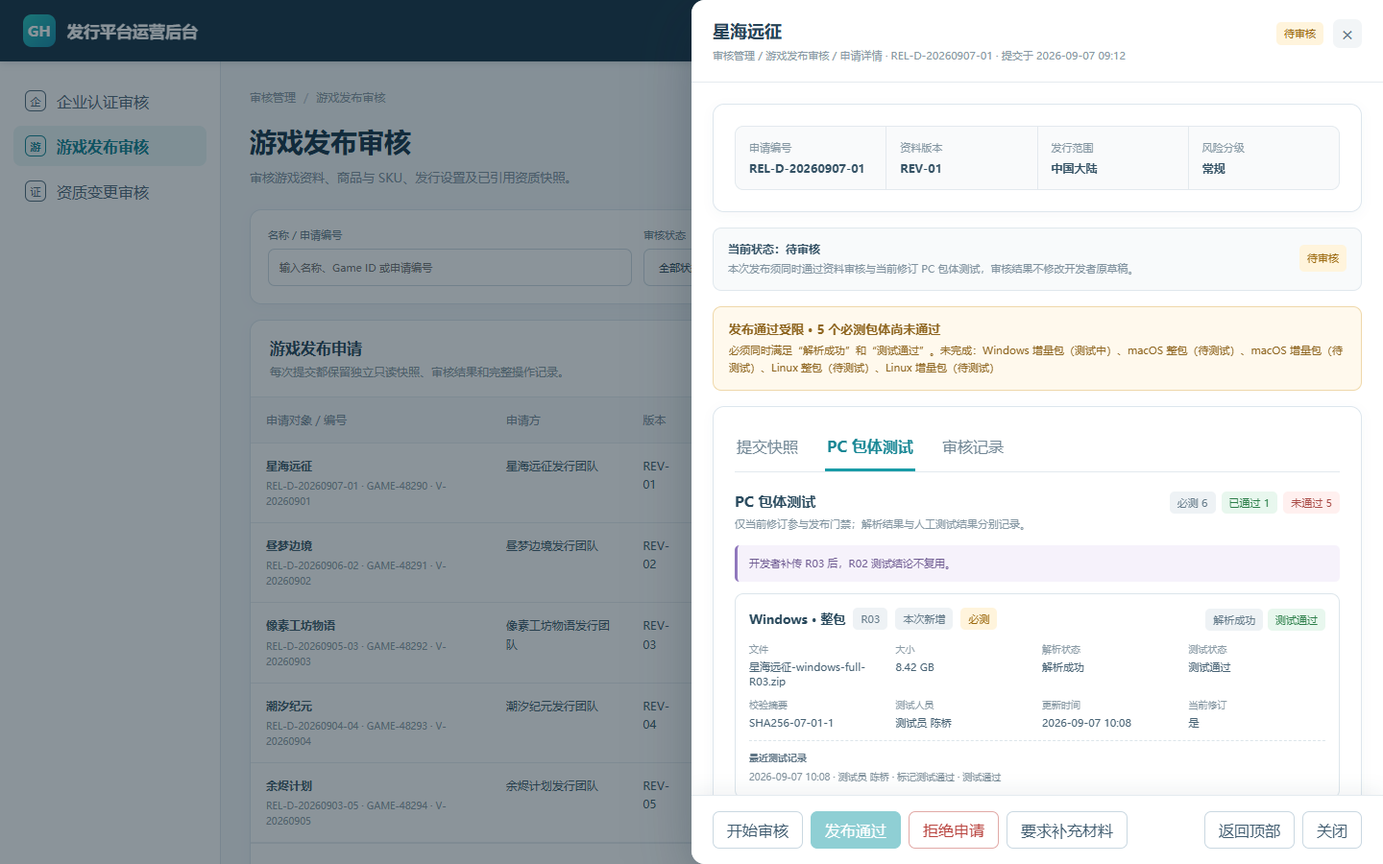
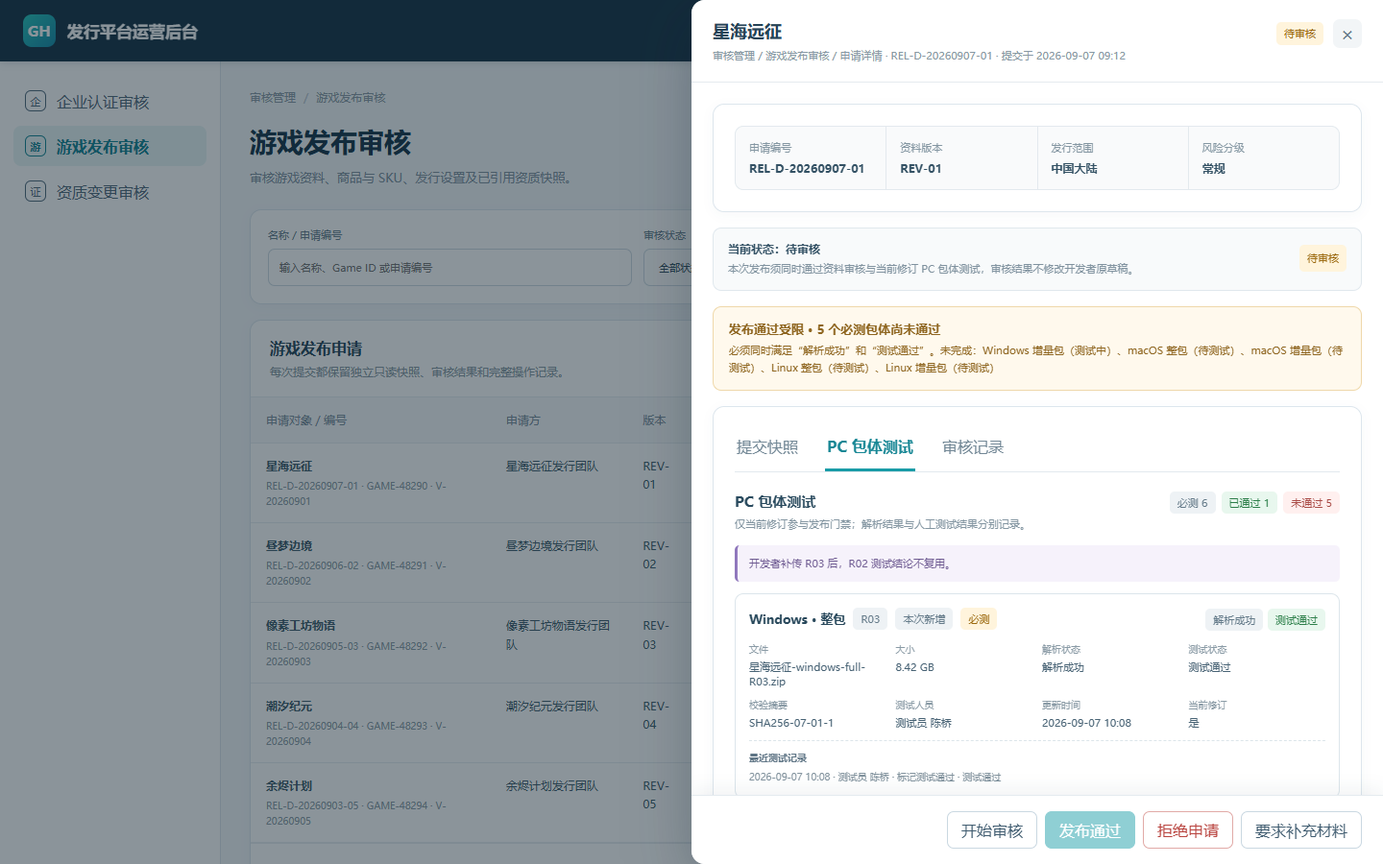
fix: align review drawer actions right

Changed region(s): [[0.5312, 0.9333, 0.9688, 0.9956]]

diff --git a/demos/开发者后台一期/09-发行审核后台demo.html b/demos/开发者后台一期/09-发行审核后台demo.html
@@ -8,7 +8,7 @@
     *{box-sizing:border-box}html,body{height:100%;margin:0}button,input,select,textarea{font:inherit}button{cursor:pointer}body{font-family:"MiSans VF","MiSans","PingFang SC","Microsoft YaHei",sans-serif;background:#f4f7fa;color:#263f51;-webkit-font-smoothing:antialiased}.app{min-height:100%;display:grid;grid-template-rows:64px 1fr}.topbar{position:sticky;top:0;z-index:20;display:flex;align-items:center;justify-content:space-between;padding:0 24px;background:#173447;color:#fff;box-shadow:0 1px 8px rgba(20,45,63,.18)}.brand{display:flex;align-items:center;gap:12px;font-size:17px;font-weight:650}.brand-mark{display:grid;place-items:center;width:34px;height:34px;border-radius:9px;background:linear-gradient(135deg,#27c4bc,#178ba9);font-size:15px}.top-user{display:flex;align-items:center;gap:10px;color:#dce9ef;font-size:13px}.avatar{display:grid;place-items:center;width:30px;height:30px;border-radius:50%;background:#2a596f;color:#fff;font-weight:650}.shell{display:grid;grid-template-columns:230px minmax(0,1fr);min-height:0}.sidebar{position:sticky;top:64px;height:calc(100vh - 64px);padding:20px 14px;border-right:1px solid #dce5ec;background:#fff}.side-label{padding:0 12px 9px;color:#9aabb6;font-size:11px}.side-nav{display:grid;gap:5px}.side-nav button{display:flex;align-items:center;gap:11px;width:100%;height:42px;border:0;border-radius:8px;background:transparent;padding:0 12px;color:#536b7d;text-align:left}.side-nav button:hover{background:#f2f7f8;color:#187d8b}.side-nav button.is-active{background:#e8f6f6;color:#138594;font-weight:650}.side-icon{display:grid;place-items:center;width:22px;height:22px;border:1px solid currentColor;border-radius:6px;font-size:11px}.side-divider{height:1px;margin:18px 12px;background:#edf1f4}.side-help{position:absolute;right:16px;bottom:18px;left:16px;border-radius:9px;background:#f6f9fb;padding:13px;color:#7b8f9d;font-size:11px;line-height:1.6}.main{min-width:0;padding:24px 30px 48px}.crumb{display:flex;align-items:center;gap:8px;min-height:26px;margin-bottom:14px;color:#8a9aa6;font-size:12px}.crumb button{border:0;background:none;padding:3px 0;color:#258c9c}.crumb button:hover{text-decoration:underline}.crumb i{font-style:normal;color:#bdc9d1}.page-header{display:flex;align-items:flex-start;justify-content:space-between;gap:24px;margin-bottom:22px}.page-header h1{margin:0;color:#17364a;font-size:28px;line-height:1.35}.page-header p{margin:8px 0 0;color:#80929f;font-size:13px;line-height:1.7}.header-actions{display:flex;align-items:center;gap:9px}.btn{display:inline-flex;align-items:center;justify-content:center;gap:7px;min-height:38px;border:1px solid #cad8e1;border-radius:7px;background:#fff;padding:8px 14px;color:#405c70;white-space:nowrap}.btn:hover{border-color:#86b9c0;color:#167f8e}.btn.primary{border-color:#149ba6;background:#149ba6;color:#fff}.btn.primary:hover{background:#108b95}.btn.danger{border-color:#e1aaa7;color:#b9443f}.btn.danger:hover{background:#fff5f4}.btn:disabled{cursor:not-allowed;opacity:.48}.btn.small{min-height:30px;padding:5px 9px;font-size:12px}.link-btn{border:0;background:none;padding:5px 0;color:#148d9a}.link-btn:hover{text-decoration:underline}.card{border:1px solid #dde6ed;border-radius:12px;background:#fff;box-shadow:0 3px 12px rgba(35,68,88,.035)}.metric-grid{display:grid;grid-template-columns:repeat(4,minmax(0,1fr));gap:14px}.metric{min-width:0;padding:20px}.metric span{display:block;color:#8799a5;font-size:12px}.metric strong{display:block;margin:9px 0 4px;color:#183b50;font-size:28px}.metric small{color:#718a99;font-size:11px}.review-entry-grid{display:grid;grid-template-columns:repeat(3,minmax(0,1fr));gap:16px;margin-top:20px}.review-entry{position:relative;overflow:hidden;padding:22px}.review-entry:before{content:"";position:absolute;top:0;right:0;left:0;height:3px;background:#1aa3ad}.review-entry:nth-child(2):before{background:#3b87c6}.review-entry:nth-child(3):before{background:#8b74be}.entry-head{display:flex;justify-content:space-between;gap:12px}.entry-head h2{margin:0;color:#203e52;font-size:17px}.entry-head strong{color:#d15e54;font-size:13px}.review-entry p{min-height:40px;margin:10px 0 18px;color:#8093a0;font-size:12px;line-height:1.7}.status-cloud{display:flex;flex-wrap:wrap;gap:6px;margin-bottom:18px}.tag{display:inline-flex;align-items:center;border-radius:5px;padding:5px 8px;background:#eef2f5;color:#657b8a;font-size:11px;line-height:1.2;white-space:nowrap}.tag.pending{background:#fff4dc;color:#9c6a10}.tag.reviewing{background:#e8f4fc;color:#2777a5}.tag.supplement{background:#fff1e4;color:#ad622c}.tag.approved{background:#e8f7ee;color:#2d7f4a}.tag.rejected{background:#fff0ef;color:#aa4c47}.tag.withdrawn{background:#eef1f4;color:#6f7c87}.tag.disabled,.tag.offline,.tag.invalid{background:#f3eefa;color:#725496}.tag.failure{background:#fff0ef;color:#ad4944}.overview-bottom{display:grid;grid-template-columns:minmax(0,1.5fr) minmax(300px,.7fr);gap:16px;margin-top:16px}.section-card{padding:21px}.section-title{display:flex;align-items:flex-start;justify-content:space-between;gap:12px;margin-bottom:16px}.section-title h2{margin:0;color:#244357;font-size:16px}.section-title p{margin:6px 0 0;color:#8495a2;font-size:12px}.mini-list{display:grid;gap:1px}.mini-row{display:grid;grid-template-columns:minmax(180px,1.5fr) 130px 100px 80px;align-items:center;gap:14px;padding:13px 4px;border-top:1px solid #edf1f4;font-size:12px}.mini-row:first-child{border-top:0}.mini-row strong,.mini-row small{display:block}.mini-row small{margin-top:4px;color:#91a0aa}.matrix{display:grid;gap:10px}.matrix-row{display:flex;align-items:center;justify-content:space-between;gap:10px;border-radius:8px;background:#f7f9fb;padding:11px}.matrix-row strong{font-size:12px}.matrix-row span{color:#758a98;font-size:11px}.filter{display:grid;grid-template-columns:minmax(220px,1.6fr) repeat(3,minmax(145px,.75fr)) auto;align-items:end;gap:12px;margin-bottom:16px;padding:18px}.field{display:grid;gap:7px;color:#687e8e;font-size:11px}.control{width:100%;height:39px;border:1px solid #cfdae3;border-radius:7px;background:#fff;padding:0 11px;color:#314e60;outline:none}.control:focus{border-color:#43aab1;box-shadow:0 0 0 3px rgba(24,155,166,.1)}.filter-actions{display:flex;gap:8px}.table-card{overflow:hidden}.table-head{display:flex;align-items:flex-start;justify-content:space-between;gap:12px;padding:18px 20px;border-bottom:1px solid #e7edf1}.table-head h2{margin:0;color:#26465b;font-size:16px}.table-head p{margin:6px 0 0;color:#8899a5;font-size:12px}.table-head span{color:#778c9a;font-size:12px}.table-scroll{overflow:auto}.table{width:100%;min-width:1040px;border-collapse:collapse}.table th,.table td{border-bottom:1px solid #e8edf1;padding:14px 16px;text-align:left;vertical-align:top;font-size:12px;line-height:1.6}.table th{background:#f8fafb;color:#7a8f9d;font-weight:500;white-space:nowrap}.table td{color:#405c6e}.table tr:last-child td{border-bottom:0}.table tr:hover td{background:#fbfdfd}.cell-main strong,.cell-main small{display:block}.cell-main small{margin-top:3px;color:#8c9da9}.cell-actions{display:flex;align-items:center;gap:11px;white-space:nowrap}.empty{padding:70px 20px;text-align:center;color:#7e919e}.empty strong{display:block;color:#456174;font-size:15px}.empty p{margin:8px 0 0;font-size:12px}.message{display:flex;align-items:flex-start;justify-content:space-between;gap:12px;margin-bottom:16px;border:1px solid #cbe7e7;border-radius:8px;background:#edf9f8;padding:12px 14px;color:#34747a;font-size:12px;line-height:1.6}.message.error{border-color:#edcecb;background:#fff5f4;color:#a5524d}.message.warning{border-color:#efd6a6;background:#fff9ec;color:#966a22}.message button{border:0;background:none;color:inherit}.detail-grid{display:grid;grid-template-columns:minmax(0,1fr) 330px;align-items:start;gap:16px}.detail-main,.detail-side{display:grid;gap:16px}.panel{padding:22px}.panel h2{margin:0 0 16px;color:#27475a;font-size:16px}.panel h3{margin:20px 0 12px;color:#3d596b;font-size:13px}.summary-strip{display:grid;grid-template-columns:repeat(4,minmax(0,1fr));gap:1px;overflow:hidden;border:1px solid #e3e9ee;border-radius:9px;background:#e3e9ee}.summary-strip>div{min-width:0;background:#f9fafb;padding:14px}.summary-strip span,.summary-strip strong{display:block}.summary-strip span{color:#8496a2;font-size:11px}.summary-strip strong{margin-top:6px;color:#335164;font-size:12px;overflow-wrap:anywhere}.detail-tabs{display:flex;gap:26px;border-bottom:1px solid #e2e9ee;margin:-5px 0 20px}.detail-tabs button{border:0;border-bottom:3px solid transparent;background:none;padding:13px 2px;color:#738896}.detail-tabs button.is-active{border-color:#199ca7;color:#188795;font-weight:650}.snapshot-section{padding:20px 0;border-top:1px solid #edf1f4}.snapshot-section:first-of-type{padding-top:0;border-top:0}.snapshot-section>h3{margin:0 0 15px}.field-grid{display:grid;grid-template-columns:repeat(2,minmax(0,1fr));gap:17px 24px}.read-field dt{margin-bottom:5px;color:#8798a4;font-size:11px}.read-field dd{margin:0;color:#344f61;font-size:12px;line-height:1.65;white-space:pre-wrap;overflow-wrap:anywhere}.read-field.wide{grid-column:1/-1}.attachment-grid{display:grid;grid-template-columns:repeat(2,minmax(0,1fr));gap:10px;margin-top:15px}.attachment{display:flex;align-items:center;gap:11px;min-width:0;border:1px solid #dce6ec;border-radius:8px;background:#fbfcfd;padding:12px;text-align:left}.attachment:hover{border-color:#72bbc0;background:#f5fbfb}.file-mark{display:grid;flex:0 0 auto;place-items:center;width:36px;height:42px;border-radius:5px;background:#e9f5f6;color:#178b98;font-size:11px;font-weight:700}.attachment span{min-width:0}.attachment strong,.attachment small{display:block;overflow:hidden;text-overflow:ellipsis;white-space:nowrap}.attachment strong{color:#385568;font-size:12px}.attachment small{margin-top:5px;color:#8a9ca8;font-size:10px}.action-note{margin:0 0 16px;color:#8194a0;font-size:12px;line-height:1.7}.action-stack{display:grid;gap:9px}.action-stack .btn{width:100%}.failure-box{margin-bottom:15px;border:1px solid #edc4c1;border-radius:8px;background:#fff4f3;padding:13px;color:#9d4d48;font-size:12px;line-height:1.7}.failure-box strong,.failure-box small{display:block}.failure-box small{margin-top:5px}.timeline{position:relative;display:grid;gap:19px;margin:0;padding:0 0 0 20px;list-style:none}.timeline:before{content:"";position:absolute;top:4px;bottom:10px;left:5px;width:1px;background:#dbe5eb}.timeline li{position:relative}.timeline li:before{content:"";position:absolute;top:5px;left:-20px;width:9px;height:9px;border:2px solid #fff;border-radius:50%;background:#4eaab1;box-shadow:0 0 0 1px #84c6ca}.timeline strong,.timeline span,.timeline p,.timeline small{display:block}.timeline strong{color:#405d70;font-size:12px}.timeline span,.timeline small{margin-top:4px;color:#8b9ca7;font-size:10px}.timeline p{margin:6px 0 0;color:#735d4e;font-size:11px;line-height:1.65}.snapshot-page{max-width:1180px;margin:0 auto}.snapshot-lock{display:flex;align-items:center;gap:10px;margin-bottom:16px;border-radius:8px;background:#eff6f8;padding:12px 14px;color:#557b88;font-size:12px}.snapshot-watermark{position:relative}.snapshot-watermark:after{content:"只读提交快照";position:fixed;right:50px;bottom:40px;z-index:2;transform:rotate(-12deg);color:rgba(50,100,116,.08);font-size:48px;font-weight:700;pointer-events:none}.modal-root[hidden]{display:none}.modal-root{position:fixed;inset:0;z-index:50;display:grid;place-items:center;padding:24px;background:rgba(13,31,43,.48)}.modal{width:min(560px,calc(100vw - 32px));max-height:calc(100vh - 48px);overflow:auto;border-radius:13px;background:#fff;box-shadow:0 20px 60px rgba(17,37,50,.28)}.modal.wide{width:min(860px,calc(100vw - 32px))}.modal header{display:flex;align-items:flex-start;justify-content:space-between;gap:16px;padding:20px 22px;border-bottom:1px solid #e5ebef}.modal h2{margin:0;color:#244256;font-size:18px}.modal header p{margin:6px 0 0;color:#8798a4;font-size:11px}.modal-close{display:grid;place-items:center;width:30px;height:30px;border:0;border-radius:7px;background:#f2f5f7;color:#687e8d;font-size:20px}.modal-body{padding:22px}.modal-footer{display:flex;justify-content:flex-end;gap:9px;padding:16px 22px;border-top:1px solid #e5ebef}.form-textarea{width:100%;min-height:110px;border:1px solid #cfdbe3;border-radius:7px;padding:10px;resize:vertical;outline:none}.form-textarea:focus{border-color:#3ba6af;box-shadow:0 0 0 3px rgba(20,155,166,.1)}.form-error{min-height:18px;margin:7px 0 0;color:#b14843;font-size:11px}.document-preview{display:grid;grid-template-columns:1fr 240px;gap:18px}.document-paper{min-height:380px;border:1px solid #dbe3e8;border-radius:6px;background:linear-gradient(#fff,#fbfcfd);padding:34px;color:#455e6e;box-shadow:0 5px 16px rgba(38,65,81,.07)}.document-paper .seal{float:right;display:grid;place-items:center;width:84px;height:84px;border:3px solid rgba(200,55,51,.55);border-radius:50%;color:rgba(200,55,51,.65);font-size:11px;transform:rotate(-12deg)}.document-paper h3{margin:0 0 24px;text-align:center;color:#324c5e;font-size:20px}.document-paper p{margin:10px 0;font-size:12px;line-height:1.8}.document-meta{border-radius:8px;background:#f6f8fa;padding:15px}.document-meta dl{margin:0}.document-meta div{padding:10px 0;border-top:1px solid #e3e9ed}.document-meta div:first-child{padding-top:0;border-top:0}.document-meta dt{color:#8a9ba6;font-size:10px}.document-meta dd{margin:5px 0 0;color:#405b6d;font-size:11px;overflow-wrap:anywhere}.pagination{display:flex;align-items:center;justify-content:flex-end;gap:8px;padding:13px 18px;border-top:1px solid #e8edf1;color:#8194a0;font-size:11px}.pagination button{display:grid;place-items:center;width:30px;height:30px;border:1px solid #d2dde5;border-radius:6px;background:#fff;color:#567083}.pagination button.is-active{border-color:#1a99a5;color:#168793}.pagination button:disabled{opacity:.4;cursor:default}@media(max-width:1100px){.shell{grid-template-columns:200px minmax(0,1fr)}.main{padding:22px 20px 40px}.metric-grid{grid-template-columns:repeat(2,minmax(0,1fr))}.review-entry-grid{grid-template-columns:1fr}.detail-grid{grid-template-columns:minmax(0,1fr)}.detail-side{grid-template-columns:repeat(2,minmax(0,1fr))}.filter{grid-template-columns:repeat(2,minmax(0,1fr))}.filter-actions{grid-column:1/-1}.overview-bottom{grid-template-columns:1fr}}@media(max-width:760px){.topbar{padding:0 14px}.top-user span{display:none}.shell{display:block}.sidebar{position:static;width:100%;height:auto;border-right:0;border-bottom:1px solid #dce5ec;padding:10px}.side-label,.side-divider,.side-help{display:none}.side-nav{display:flex;overflow:auto}.side-nav button{flex:0 0 auto;width:auto}.main{padding:18px 14px 34px}.page-header{display:block}.header-actions{margin-top:14px}.metric-grid,.field-grid,.attachment-grid,.detail-side{grid-template-columns:1fr}.summary-strip{grid-template-columns:repeat(2,minmax(0,1fr))}.filter{grid-template-columns:1fr}.mini-row{grid-template-columns:minmax(0,1fr) 85px 76px}.mini-row>span:nth-child(2){display:none}.document-preview{grid-template-columns:1fr}.document-paper{min-height:300px}}
     .modal-root.is-drawer{display:block;padding:0}.modal.drawer{display:flex;flex-direction:column;width:min(720px,50vw);height:100vh;max-height:none;margin-left:auto;border-radius:14px 0 0 14px;animation:drawer-in .18s ease-out}.modal.drawer>.modal-body{min-height:0;overflow:auto}.modal.drawer>.modal-footer,.modal.drawer>header{flex:0 0 auto}.region-switch{display:flex;align-items:center;gap:4px;border:1px solid rgba(255,255,255,.18);border-radius:8px;background:rgba(255,255,255,.06);padding:3px}.region-switch span{padding:0 7px;color:#bcd0db;font-size:11px}.region-switch button{height:28px;border:0;border-radius:5px;background:transparent;padding:0 12px;color:#d5e4eb;font-size:12px}.region-switch button.is-active{background:#fff;color:#176f7e;font-weight:650}.range-trigger{display:flex;align-items:center;justify-content:space-between;min-width:220px;text-align:left}.range-trigger span{overflow:hidden;text-overflow:ellipsis}.range-popover[hidden]{display:none}.range-popover{position:fixed;z-index:45;width:390px;border:1px solid #d5e0e7;border-radius:10px;background:#fff;box-shadow:0 14px 38px rgba(23,52,70,.18);padding:16px}.range-presets{display:flex;flex-wrap:wrap;gap:7px;margin-bottom:15px}.range-presets button{border:1px solid #d3dee5;border-radius:6px;background:#f8fafb;padding:7px 10px;color:#536d7e;font-size:11px}.range-presets button:hover,.range-presets button.is-active{border-color:#58adb4;background:#edf8f8;color:#14818d}.range-custom{display:grid;grid-template-columns:1fr 1fr;gap:10px}.range-popover footer{display:flex;justify-content:flex-end;gap:8px;margin-top:14px;padding-top:13px;border-top:1px solid #e8edf1}@keyframes drawer-in{from{transform:translateX(36px);opacity:.5}to{transform:translateX(0);opacity:1}}@media(max-width:1100px){.modal.drawer{width:min(720px,72vw)}}@media(max-width:760px){.modal.drawer{width:calc(100vw - 18px);border-radius:14px 0 0 14px}.range-popover{right:12px!important;left:12px!important;width:auto}.region-switch span{display:none}.region-switch button{padding:0 8px}}
     .region-switch select{height:30px;border:1px solid rgba(255,255,255,.24);border-radius:5px;background:#fff;padding:0 26px 0 10px;color:#176f7e;font-size:12px;font-weight:650;outline:none}.modal.drawer .detail-grid{grid-template-columns:minmax(0,1fr)}.modal.drawer .detail-side{order:-1;grid-template-columns:repeat(2,minmax(0,1fr))}@media(max-width:620px){.modal.drawer .detail-side{grid-template-columns:1fr}}
-    .page-header .region-switch{border-color:#d4e0e7;background:#fff;padding:4px 5px 4px 10px;box-shadow:0 2px 8px rgba(35,68,88,.04)}.page-header .region-switch span{color:#6f8492}.page-header .region-switch select{height:32px;border-color:#cbd9e1;background:#f8fafb;color:#244d62}.filter{grid-template-columns:minmax(220px,1.35fr) minmax(150px,.65fr) minmax(260px,1fr) auto}.filter-actions{align-items:center;justify-content:flex-end}.link-btn:disabled{cursor:not-allowed;color:#a5b1b9;text-decoration:none}.modal.drawer>header{position:relative;z-index:2;background:#fff}.modal.drawer>.modal-body{overscroll-behavior:contain}.modal.drawer>.modal-footer{position:relative;z-index:2;align-items:center;justify-content:space-between;gap:12px;background:#fff;box-shadow:0 -6px 18px rgba(25,58,76,.06)}.drawer-footer-actions,.drawer-footer-tools{display:flex;align-items:center;gap:8px}.drawer-footer-actions .action-note{margin:0}.drawer-status{display:flex;align-items:flex-start;justify-content:space-between;gap:16px;margin-bottom:16px;border:1px solid #e0e8ed;border-radius:9px;background:#f8fafb;padding:13px 15px}.drawer-status strong,.drawer-status span{display:block}.drawer-status strong{color:#355366;font-size:12px}.drawer-status span{margin-top:4px;color:#80929f;font-size:11px;line-height:1.6}.gate-panel{margin-bottom:16px;border:1px solid #efd8aa;border-radius:9px;background:#fff9ed;padding:14px 16px;color:#8e651f}.gate-panel.is-passed{border-color:#cce6d5;background:#eff9f2;color:#2f7850}.gate-panel strong,.gate-panel span{display:block}.gate-panel strong{font-size:13px}.gate-panel span{margin-top:5px;font-size:11px;line-height:1.65}.package-toolbar{display:flex;align-items:flex-start;justify-content:space-between;gap:18px;margin-bottom:14px}.package-toolbar h3{margin:0;color:#294a5e;font-size:15px}.package-toolbar p{margin:5px 0 0;color:#8496a2;font-size:11px;line-height:1.6}.package-summary{display:flex;gap:6px;flex-wrap:wrap;justify-content:flex-end}.package-revision-note{margin-bottom:12px;border-left:3px solid #8f77bc;border-radius:5px;background:#f6f2fb;padding:10px 12px;color:#6e5a91;font-size:11px;line-height:1.6}.package-list{display:grid;gap:10px}.package-item{border:1px solid #dce5eb;border-radius:9px;background:#fff;padding:14px}.package-item.is-superseded{background:#f7f8f9;color:#87949d}.package-head{display:flex;align-items:flex-start;justify-content:space-between;gap:12px}.package-title{display:flex;align-items:center;gap:8px;flex-wrap:wrap}.package-title strong{color:#29495c;font-size:13px}.package-item.is-superseded .package-title strong{color:#71808a}.package-meta{display:grid;grid-template-columns:repeat(4,minmax(0,1fr));gap:10px;margin-top:12px}.package-meta div{min-width:0}.package-meta span,.package-meta b{display:block}.package-meta span{color:#8a9ba6;font-size:10px}.package-meta b{margin-top:4px;color:#486375;font-size:11px;font-weight:500;overflow-wrap:anywhere}.package-result{margin-top:11px;border-radius:7px;background:#f7f9fa;padding:10px 11px;color:#6f8290;font-size:11px;line-height:1.6}.package-result.failure{background:#fff3f2;color:#a6534d}.package-actions{display:flex;flex-wrap:wrap;gap:7px;margin-top:12px}.package-history{margin-top:11px;border-top:1px dashed #dce5ea;padding-top:9px;color:#82939e;font-size:10px;line-height:1.6}.package-history strong{display:block;margin-bottom:4px;color:#607686;font-size:10px}.package-attachments{display:flex;flex-wrap:wrap;gap:6px;margin-top:7px}.package-file{display:inline-flex;align-items:center;gap:6px;border-radius:5px;background:#edf4f6;padding:5px 7px;color:#517080;font-size:10px}.file-upload{position:relative;display:grid;place-items:center;min-height:84px;margin-top:14px;border:1px dashed #a9c1cc;border-radius:8px;background:#f8fbfc;color:#587483;font-size:12px;cursor:pointer}.file-upload input{position:absolute;inset:0;width:100%;height:100%;opacity:0;cursor:pointer}.draft-files{display:grid;gap:7px;margin-top:10px}.draft-file{display:flex;align-items:center;justify-content:space-between;gap:12px;border-radius:7px;background:#f4f7f9;padding:9px 10px;color:#536d7d;font-size:11px}.draft-file button{border:0;background:none;color:#b14d48}.tag.parse-pending,.tag.test-pending{background:#f1f3f5;color:#6e7c86}.tag.parsing,.tag.testing{background:#e8f4fc;color:#2777a5}.tag.parse-failed,.tag.test-failed{background:#fff0ef;color:#aa4c47}.tag.parsed,.tag.test-passed{background:#e8f7ee;color:#2d7f4a}.tag.superseded{background:#f3eefa;color:#725496}@media(max-width:1100px){.filter{grid-template-columns:repeat(2,minmax(0,1fr))}.package-meta{grid-template-columns:repeat(2,minmax(0,1fr))}}@media(max-width:760px){.filter{grid-template-columns:1fr}.filter-actions{justify-content:flex-start;flex-wrap:wrap}.page-header .region-switch{margin-top:14px}.modal.drawer>.modal-footer{align-items:flex-start;flex-direction:column}.drawer-footer-actions,.drawer-footer-tools{width:100%;flex-wrap:wrap}.package-meta{grid-template-columns:1fr}.package-toolbar{display:block}.package-summary{justify-content:flex-start;margin-top:10px}}
+    .page-header .region-switch{border-color:#d4e0e7;background:#fff;padding:4px 5px 4px 10px;box-shadow:0 2px 8px rgba(35,68,88,.04)}.page-header .region-switch span{color:#6f8492}.page-header .region-switch select{height:32px;border-color:#cbd9e1;background:#f8fafb;color:#244d62}.filter{grid-template-columns:minmax(220px,1.35fr) minmax(150px,.65fr) minmax(260px,1fr) auto}.filter-actions{align-items:center;justify-content:flex-end}.link-btn:disabled{cursor:not-allowed;color:#a5b1b9;text-decoration:none}.modal.drawer>header{position:relative;z-index:2;background:#fff}.modal.drawer>.modal-body{overscroll-behavior:contain}.modal.drawer>.modal-footer{position:relative;z-index:2;align-items:center;justify-content:flex-end;gap:12px;background:#fff;box-shadow:0 -6px 18px rgba(25,58,76,.06)}.drawer-footer-actions{display:flex;align-items:center;justify-content:flex-end;gap:8px}.drawer-footer-actions .action-note{margin:0}.drawer-status{display:flex;align-items:flex-start;justify-content:space-between;gap:16px;margin-bottom:16px;border:1px solid #e0e8ed;border-radius:9px;background:#f8fafb;padding:13px 15px}.drawer-status strong,.drawer-status span{display:block}.drawer-status strong{color:#355366;font-size:12px}.drawer-status span{margin-top:4px;color:#80929f;font-size:11px;line-height:1.6}.gate-panel{margin-bottom:16px;border:1px solid #efd8aa;border-radius:9px;background:#fff9ed;padding:14px 16px;color:#8e651f}.gate-panel.is-passed{border-color:#cce6d5;background:#eff9f2;color:#2f7850}.gate-panel strong,.gate-panel span{display:block}.gate-panel strong{font-size:13px}.gate-panel span{margin-top:5px;font-size:11px;line-height:1.65}.package-toolbar{display:flex;align-items:flex-start;justify-content:space-between;gap:18px;margin-bottom:14px}.package-toolbar h3{margin:0;color:#294a5e;font-size:15px}.package-toolbar p{margin:5px 0 0;color:#8496a2;font-size:11px;line-height:1.6}.package-summary{display:flex;gap:6px;flex-wrap:wrap;justify-content:flex-end}.package-revision-note{margin-bottom:12px;border-left:3px solid #8f77bc;border-radius:5px;background:#f6f2fb;padding:10px 12px;color:#6e5a91;font-size:11px;line-height:1.6}.package-list{display:grid;gap:10px}.package-item{border:1px solid #dce5eb;border-radius:9px;background:#fff;padding:14px}.package-item.is-superseded{background:#f7f8f9;color:#87949d}.package-head{display:flex;align-items:flex-start;justify-content:space-between;gap:12px}.package-title{display:flex;align-items:center;gap:8px;flex-wrap:wrap}.package-title strong{color:#29495c;font-size:13px}.package-item.is-superseded .package-title strong{color:#71808a}.package-meta{display:grid;grid-template-columns:repeat(4,minmax(0,1fr));gap:10px;margin-top:12px}.package-meta div{min-width:0}.package-meta span,.package-meta b{display:block}.package-meta span{color:#8a9ba6;font-size:10px}.package-meta b{margin-top:4px;color:#486375;font-size:11px;font-weight:500;overflow-wrap:anywhere}.package-result{margin-top:11px;border-radius:7px;background:#f7f9fa;padding:10px 11px;color:#6f8290;font-size:11px;line-height:1.6}.package-result.failure{background:#fff3f2;color:#a6534d}.package-actions{display:flex;flex-wrap:wrap;gap:7px;margin-top:12px}.package-history{margin-top:11px;border-top:1px dashed #dce5ea;padding-top:9px;color:#82939e;font-size:10px;line-height:1.6}.package-history strong{display:block;margin-bottom:4px;color:#607686;font-size:10px}.package-attachments{display:flex;flex-wrap:wrap;gap:6px;margin-top:7px}.package-file{display:inline-flex;align-items:center;gap:6px;border-radius:5px;background:#edf4f6;padding:5px 7px;color:#517080;font-size:10px}.file-upload{position:relative;display:grid;place-items:center;min-height:84px;margin-top:14px;border:1px dashed #a9c1cc;border-radius:8px;background:#f8fbfc;color:#587483;font-size:12px;cursor:pointer}.file-upload input{position:absolute;inset:0;width:100%;height:100%;opacity:0;cursor:pointer}.draft-files{display:grid;gap:7px;margin-top:10px}.draft-file{display:flex;align-items:center;justify-content:space-between;gap:12px;border-radius:7px;background:#f4f7f9;padding:9px 10px;color:#536d7d;font-size:11px}.draft-file button{border:0;background:none;color:#b14d48}.tag.parse-pending,.tag.test-pending{background:#f1f3f5;color:#6e7c86}.tag.parsing,.tag.testing{background:#e8f4fc;color:#2777a5}.tag.parse-failed,.tag.test-failed{background:#fff0ef;color:#aa4c47}.tag.parsed,.tag.test-passed{background:#e8f7ee;color:#2d7f4a}.tag.superseded{background:#f3eefa;color:#725496}@media(max-width:1100px){.filter{grid-template-columns:repeat(2,minmax(0,1fr))}.package-meta{grid-template-columns:repeat(2,minmax(0,1fr))}}@media(max-width:760px){.filter{grid-template-columns:1fr}.filter-actions{justify-content:flex-start;flex-wrap:wrap}.page-header .region-switch{margin-top:14px}.modal.drawer>.modal-footer{align-items:flex-start}.drawer-footer-actions{width:100%;justify-content:flex-end;flex-wrap:wrap}.package-meta{grid-template-columns:1fr}.package-toolbar{display:block}.package-summary{justify-content:flex-start;margin-top:10px}}
   </style>
 </head>
 <body>
@@ -189,7 +189,7 @@
       const path=`审核管理 / ${typeConfig[record.type].label} / 申请详情`;
       const statusText=record.type==='enterprise'?'企业认证结果决定发行合作权限；禁用后仍可登录查看历史结果。':record.type==='release'?'本次发布须同时通过资料审核与当前修订 PC 包体测试，审核结果不修改开发者原草稿。':'资质变更与发布审核独立，已失效版本不可用于新的上架申请。';
       const content=tab==='audit'?renderTimeline(record):tab==='packages'?renderPackageTests(record):renderSnapshotSections(record);
-      const body=`<header data-drawer-header><div><h2>${esc(record.title)}</h2><p>${esc(path)} · ${esc(record.id)} · 提交于 ${esc(record.submittedAt)}</p></div><div style="display:flex;align-items:center;gap:10px">${tag(record.status)}<button type="button" class="modal-close" data-modal-close aria-label="关闭">×</button></div></header><div class="modal-body" data-drawer-scroll>${state.message?renderMessage():''}<section class="card panel" style="margin-bottom:16px"><div class="summary-strip"><div><span>申请编号</span><strong>${esc(record.id)}</strong></div><div><span>资料版本</span><strong>${esc(record.version)}</strong></div><div><span>发行范围</span><strong>${esc(record.scope)}</strong></div><div><span>风险分级</span><strong>${esc(record.risk)}</strong></div></div></section><div class="drawer-status"><div><strong>当前状态：${esc(statusLabel(record.status))}</strong><span>${esc(statusText)}</span></div>${tag(record.status)}</div>${record.type==='release'?renderReleaseGate(record):''}<section class="card panel">${tabs}${content}</section></div><footer class="modal-footer" data-drawer-footer><div class="drawer-footer-actions">${auditActions(record)}</div><div class="drawer-footer-tools"><button type="button" class="btn" data-drawer-top>返回顶部</button><button type="button" class="btn" data-modal-close>关闭</button></div></footer>`;
+      const body=`<header data-drawer-header><div><h2>${esc(record.title)}</h2><p>${esc(path)} · ${esc(record.id)} · 提交于 ${esc(record.submittedAt)}</p></div><div style="display:flex;align-items:center;gap:10px">${tag(record.status)}<button type="button" class="modal-close" data-modal-close aria-label="关闭">×</button></div></header><div class="modal-body" data-drawer-scroll>${state.message?renderMessage():''}<section class="card panel" style="margin-bottom:16px"><div class="summary-strip"><div><span>申请编号</span><strong>${esc(record.id)}</strong></div><div><span>资料版本</span><strong>${esc(record.version)}</strong></div><div><span>发行范围</span><strong>${esc(record.scope)}</strong></div><div><span>风险分级</span><strong>${esc(record.risk)}</strong></div></div></section><div class="drawer-status"><div><strong>当前状态：${esc(statusLabel(record.status))}</strong><span>${esc(statusText)}</span></div>${tag(record.status)}</div>${record.type==='release'?renderReleaseGate(record):''}<section class="card panel">${tabs}${content}</section></div><footer class="modal-footer" data-drawer-footer><div class="drawer-footer-actions">${auditActions(record)}</div></footer>`;
       openModal(body,false,true);
     }
     function renderNotFound(){return `${pageHeader('申请不存在','该记录可能已被移除或地址不完整。')}<button type="button" class="btn primary" data-nav="enterprise">返回企业认证审核</button>`;}
@@ -262,7 +262,6 @@
       const packageAction=event.target.closest('[data-package-action]');if(packageAction){const actionName=packageAction.dataset.packageAction,recordId=packageAction.dataset.recordId,packageId=packageAction.dataset.packageId;if(actionName==='fail')showPackageFailModal(recordId,packageId);else updatePackageStatus(recordId,packageId,actionName==='start'?'testing':'passed');return;}
       const removePackageAttachment=event.target.closest('[data-package-attachment-remove]');if(removePackageAttachment&&state.modal?.kind==='package-fail'){state.modal.reason=document.querySelector('[data-package-fail-reason]')?.value||'';state.modal.attachments.splice(Number(removePackageAttachment.dataset.packageAttachmentRemove),1);state.modal.error='';renderPackageFailureModal();return;}
       if(event.target.closest('[data-package-fail-confirm]')){confirmPackageFailure();return;}
-      if(event.target.closest('[data-drawer-top]')){document.querySelector('[data-drawer-scroll]')?.scrollTo({top:0,behavior:'smooth'});return;}
       const action=event.target.closest('[data-action]');if(action){showActionModal(action.dataset.action);return;}
       if(event.target.closest('[data-modal-close]')||event.target.id==='modalRoot'){closeModal();return;}
       if(event.target.closest('[data-action-confirm]')){performAction(state.modal?.action,document.querySelector('[data-action-reason]')?.value||'');return;}

diff --git a/prd/发行平台专项/开发者后台PRD/03-游戏包体、测试审核与版本发布PRD.md b/prd/发行平台专项/开发者后台PRD/03-游戏包体、测试审核与版本发布PRD.md
@@ -130,7 +130,7 @@
 | 功能简介 | 核对提交快照、测试当前包体并执行最终发布审核。 |
 | 场景描述 | 测试人员验证包体；发行运营汇总资料、商品、发行设置、资质和包体结果。 |
 | 输入／前置条件 | 目标申请为待审核或审核中；当前用户具有对应审核或测试权限。 |
-| 需求描述 | **图示：**<br>![包体门禁未通过](https://cdn.jsdelivr.net/gh/z36358631-ship-it/-@f8844fdd39d278f292863bfaaf4cae0ef362a491/public/prd/genuine-game-distribution-phase1/developer-backend-final/03/03-admin-build-test-blocked-feishu.png)<br>*图 3.2.2-1：存在未通过包体时禁用“发布通过”。*<br>**界面文字与布局：** 右侧半屏抽屉顶部展示申请摘要与状态；正文依次展示游戏资料、商品与 SKU、发行设置、资质快照、PC 包体测试和操作记录；底部固定审核操作及返回顶部。<br>![包体门禁已通过](https://cdn.jsdelivr.net/gh/z36358631-ship-it/-@f8844fdd39d278f292863bfaaf4cae0ef362a491/public/prd/genuine-game-distribution-phase1/developer-backend-final/03/03-admin-build-test-passed-feishu.png)<br>*图 3.2.2-2：全部必测包体通过后解锁“发布通过”。*<br>**界面文字与布局：** 门禁区显示必测数、已通过数、未通过数；全部通过时改为绿色通过状态，底部“发布通过”可点。<br>**详细说明：**<br>**展示说明：**<br>1. 当前修订包体按 Windows、macOS、Linux 及整包／增量包展示文件、大小、校验摘要、解析状态、测试状态、测试人员和更新时间。<br>2. 仅本次新增或变更、且被当前发布引用的包体标记“必测”；旧修订标记“不参与门禁”，测试记录只读保留。<br>3. 解析状态包含待解析、解析中、解析成功、解析失败；测试状态包含待测试、测试中、测试通过、测试不通过。<br>4. 测试不通过展示原因和附件；每次操作记录时间、操作人、动作、结果及失败原因。<br>5. 门禁区明确列出未完成项。当前必测包体全部解析成功且测试通过后，包体门禁才变为通过。<br>6. 抽屉头部和底部固定，正文独立滚动；右下显示“返回顶部”。<br>**交互说明：**<br>1. 点击“开始测试”将待测试改为测试中；解析未成功、旧修订或无测试权限时不显示可执行操作。<br>2. 点击“标记通过”写入测试通过、操作人和时间；写入失败保持原状态，可按同一动作重试。<br>3. 点击“标记不通过”打开表单；不通过原因必填，可上传多份本地测试记录。确认后包体进入“测试不通过”，发布申请自动转“待&#34917;充”，并通知开发者补传。<br>4. “测试通过”和“测试不通过”均为当前包体测试终态，不可覆盖；需要改变结论时，开发者补传新包并生成新修订，旧记录保持只读。<br>5. 点击“发布通过”时，服务端再次校验当前全部必测包体；任一包体未通过时不改变申请状态，并返回未完成项。<br>6. PC 包体门禁通过后，发行运营再人工核对游戏资料、商品与 SKU、发行设置及资质，给出发布结论；本 PRD 不为这四项新增独立系统状态机。<br>7. 全部条件满足后，“发布通过”将本次快照改为“已通过”并写审核记录；该结果仅用于发布执行，不直接改变线上版本。<br>8. 点击“要求补充材料”或“拒绝申请”须填写原因；成功后开发者可查看，失败时保留输入并恢复按钮。<br>9. 同一申请的首个成功终态生效；重复或并发请求返回当前终态，不重复写入。 |
+| 需求描述 | **图示：**<br>![包体门禁未通过](https://cdn.jsdelivr.net/gh/z36358631-ship-it/-@f8844fdd39d278f292863bfaaf4cae0ef362a491/public/prd/genuine-game-distribution-phase1/developer-backend-final/03/03-admin-build-test-blocked-feishu.png)<br>*图 3.2.2-1：存在未通过包体时禁用“发布通过”。*<br>**界面文字与布局：** 右侧半屏抽屉顶部展示申请摘要与状态；正文依次展示游戏资料、商品与 SKU、发行设置、资质快照、PC 包体测试和操作记录；底部固定审核操作并右对齐，关闭入口只保留在右上角。<br>![包体门禁已通过](https://cdn.jsdelivr.net/gh/z36358631-ship-it/-@f8844fdd39d278f292863bfaaf4cae0ef362a491/public/prd/genuine-game-distribution-phase1/developer-backend-final/03/03-admin-build-test-passed-feishu.png)<br>*图 3.2.2-2：全部必测包体通过后解锁“发布通过”。*<br>**界面文字与布局：** 门禁区显示必测数、已通过数、未通过数；全部通过时改为绿色通过状态，底部“发布通过”可点。<br>**详细说明：**<br>**展示说明：**<br>1. 当前修订包体按 Windows、macOS、Linux 及整包／增量包展示文件、大小、校验摘要、解析状态、测试状态、测试人员和更新时间。<br>2. 仅本次新增或变更、且被当前发布引用的包体标记“必测”；旧修订标记“不参与门禁”，测试记录只读保留。<br>3. 解析状态包含待解析、解析中、解析成功、解析失败；测试状态包含待测试、测试中、测试通过、测试不通过。<br>4. 测试不通过展示原因和附件；每次操作记录时间、操作人、动作、结果及失败原因。<br>5. 门禁区明确列出未完成项。当前必测包体全部解析成功且测试通过后，包体门禁才变为通过。<br>6. 抽屉头部和底部固定，正文独立滚动；底部不显示“返回顶部”和“关闭”。<br>**交互说明：**<br>1. 点击“开始测试”将待测试改为测试中；解析未成功、旧修订或无测试权限时不显示可执行操作。<br>2. 点击“标记通过”写入测试通过、操作人和时间；写入失败保持原状态，可按同一动作重试。<br>3. 点击“标记不通过”打开表单；不通过原因必填，可上传多份本地测试记录。确认后包体进入“测试不通过”，发布申请自动转“待&#34917;充”，并通知开发者补传。<br>4. “测试通过”和“测试不通过”均为当前包体测试终态，不可覆盖；需要改变结论时，开发者补传新包并生成新修订，旧记录保持只读。<br>5. 点击“发布通过”时，服务端再次校验当前全部必测包体；任一包体未通过时不改变申请状态，并返回未完成项。<br>6. PC 包体门禁通过后，发行运营再人工核对游戏资料、商品与 SKU、发行设置及资质，给出发布结论；本 PRD 不为这四项新增独立系统状态机。<br>7. 全部条件满足后，“发布通过”将本次快照改为“已通过”并写审核记录；该结果仅用于发布执行，不直接改变线上版本。<br>8. 点击“要求补充材料”或“拒绝申请”须填写原因；成功后开发者可查看，失败时保留输入并恢复按钮。<br>9. 同一申请的首个成功终态生效；重复或并发请求返回当前终态，不重复写入。 |
 | 输出／后置条件 | 形成包体测试记录和发布审核结论；已通过申请可进入发布执行模块，未通过申请返回开发者补充。 |
 | 补充说明 | 1. 未变化且继续引用同一不可变包体的有效测试通过结果可复用；重新上传、替换包体或变更启动项后必须重测。<br>2. 开发者补传后生成新包体和新修订；旧修订、旧测试结果及失败附件只读保留。<br>3. 不允许运营绕过包体测试门禁；列表快捷操作与详情按钮使用同一校验。<br>4. 抽屉关闭后保留列表上下文；申请已被他人处理时刷新为最新终态。 |
 
